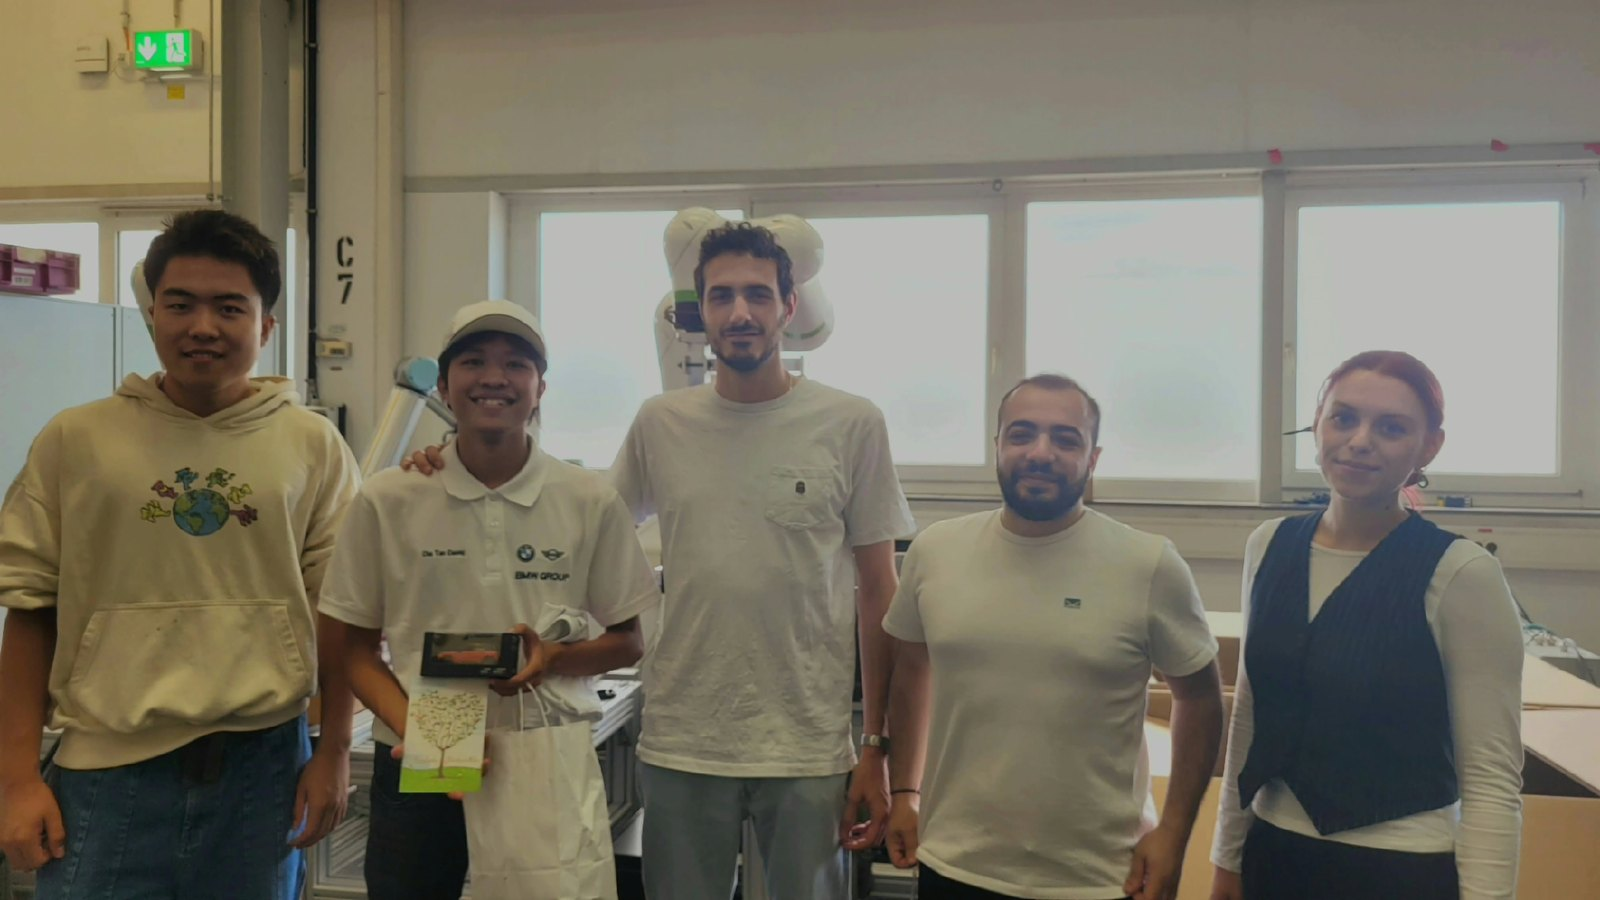
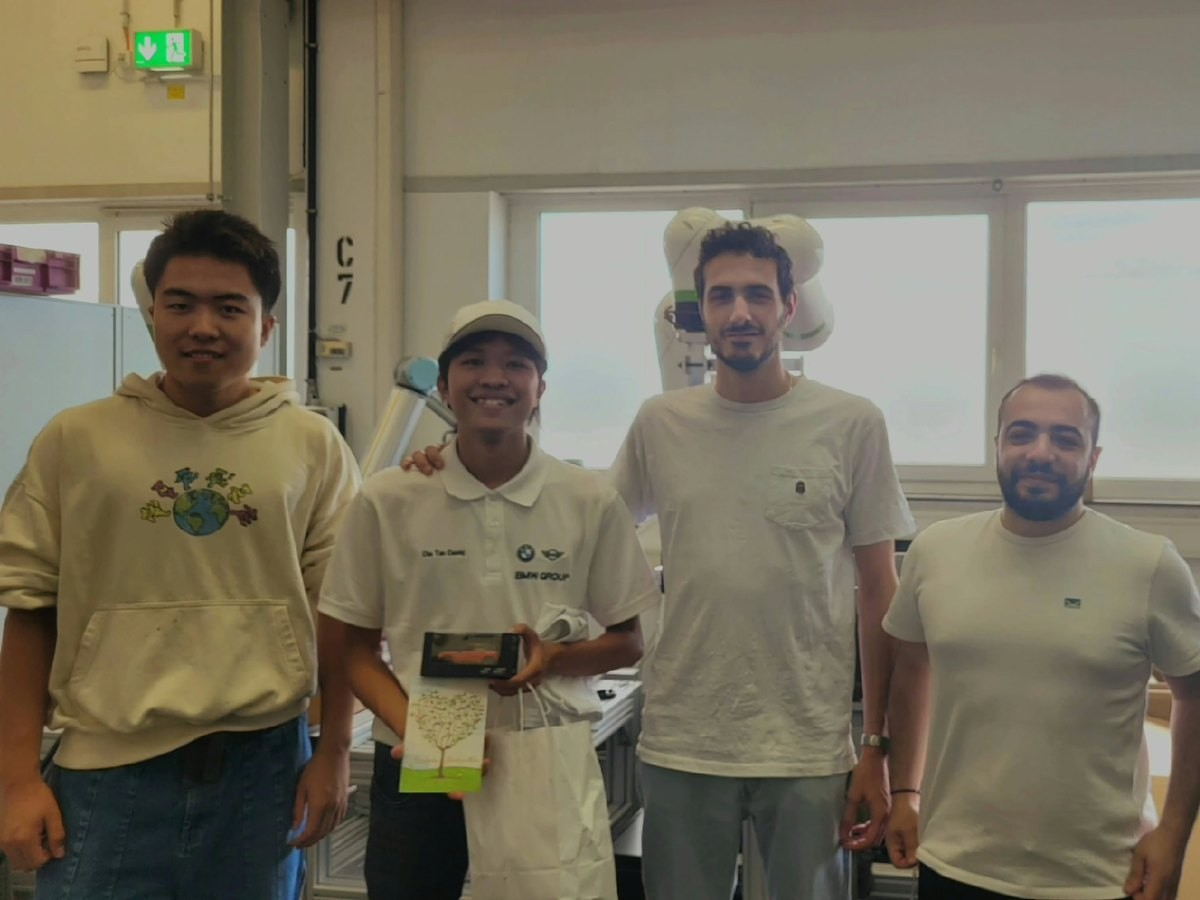
Update final GPA at FAU

diff --git a/_pages/about.md b/_pages/about.md
@@ -78,7 +78,7 @@ Before that, I worked on human motion prediction for safe human-robot interactio
     <div class="edu-school">Friedrich-Alexander-Universität Erlangen-Nürnberg (FAU), Germany</div>
     <div class="edu-tags">
       <span class="edu-tag">Elite Program</span>
-      <span class="edu-tag">GPA 1.6 (German scale)</span>
+      <span class="edu-tag">GPA 1.7 (German scale)</span>
     </div>
     <div class="edu-note"><i class="fa-solid fa-users"></i> Member of the Bavarian Graduate School of Computational Engineering (BGCE), Elitenetzwerk Bayern</div>
   </div>
